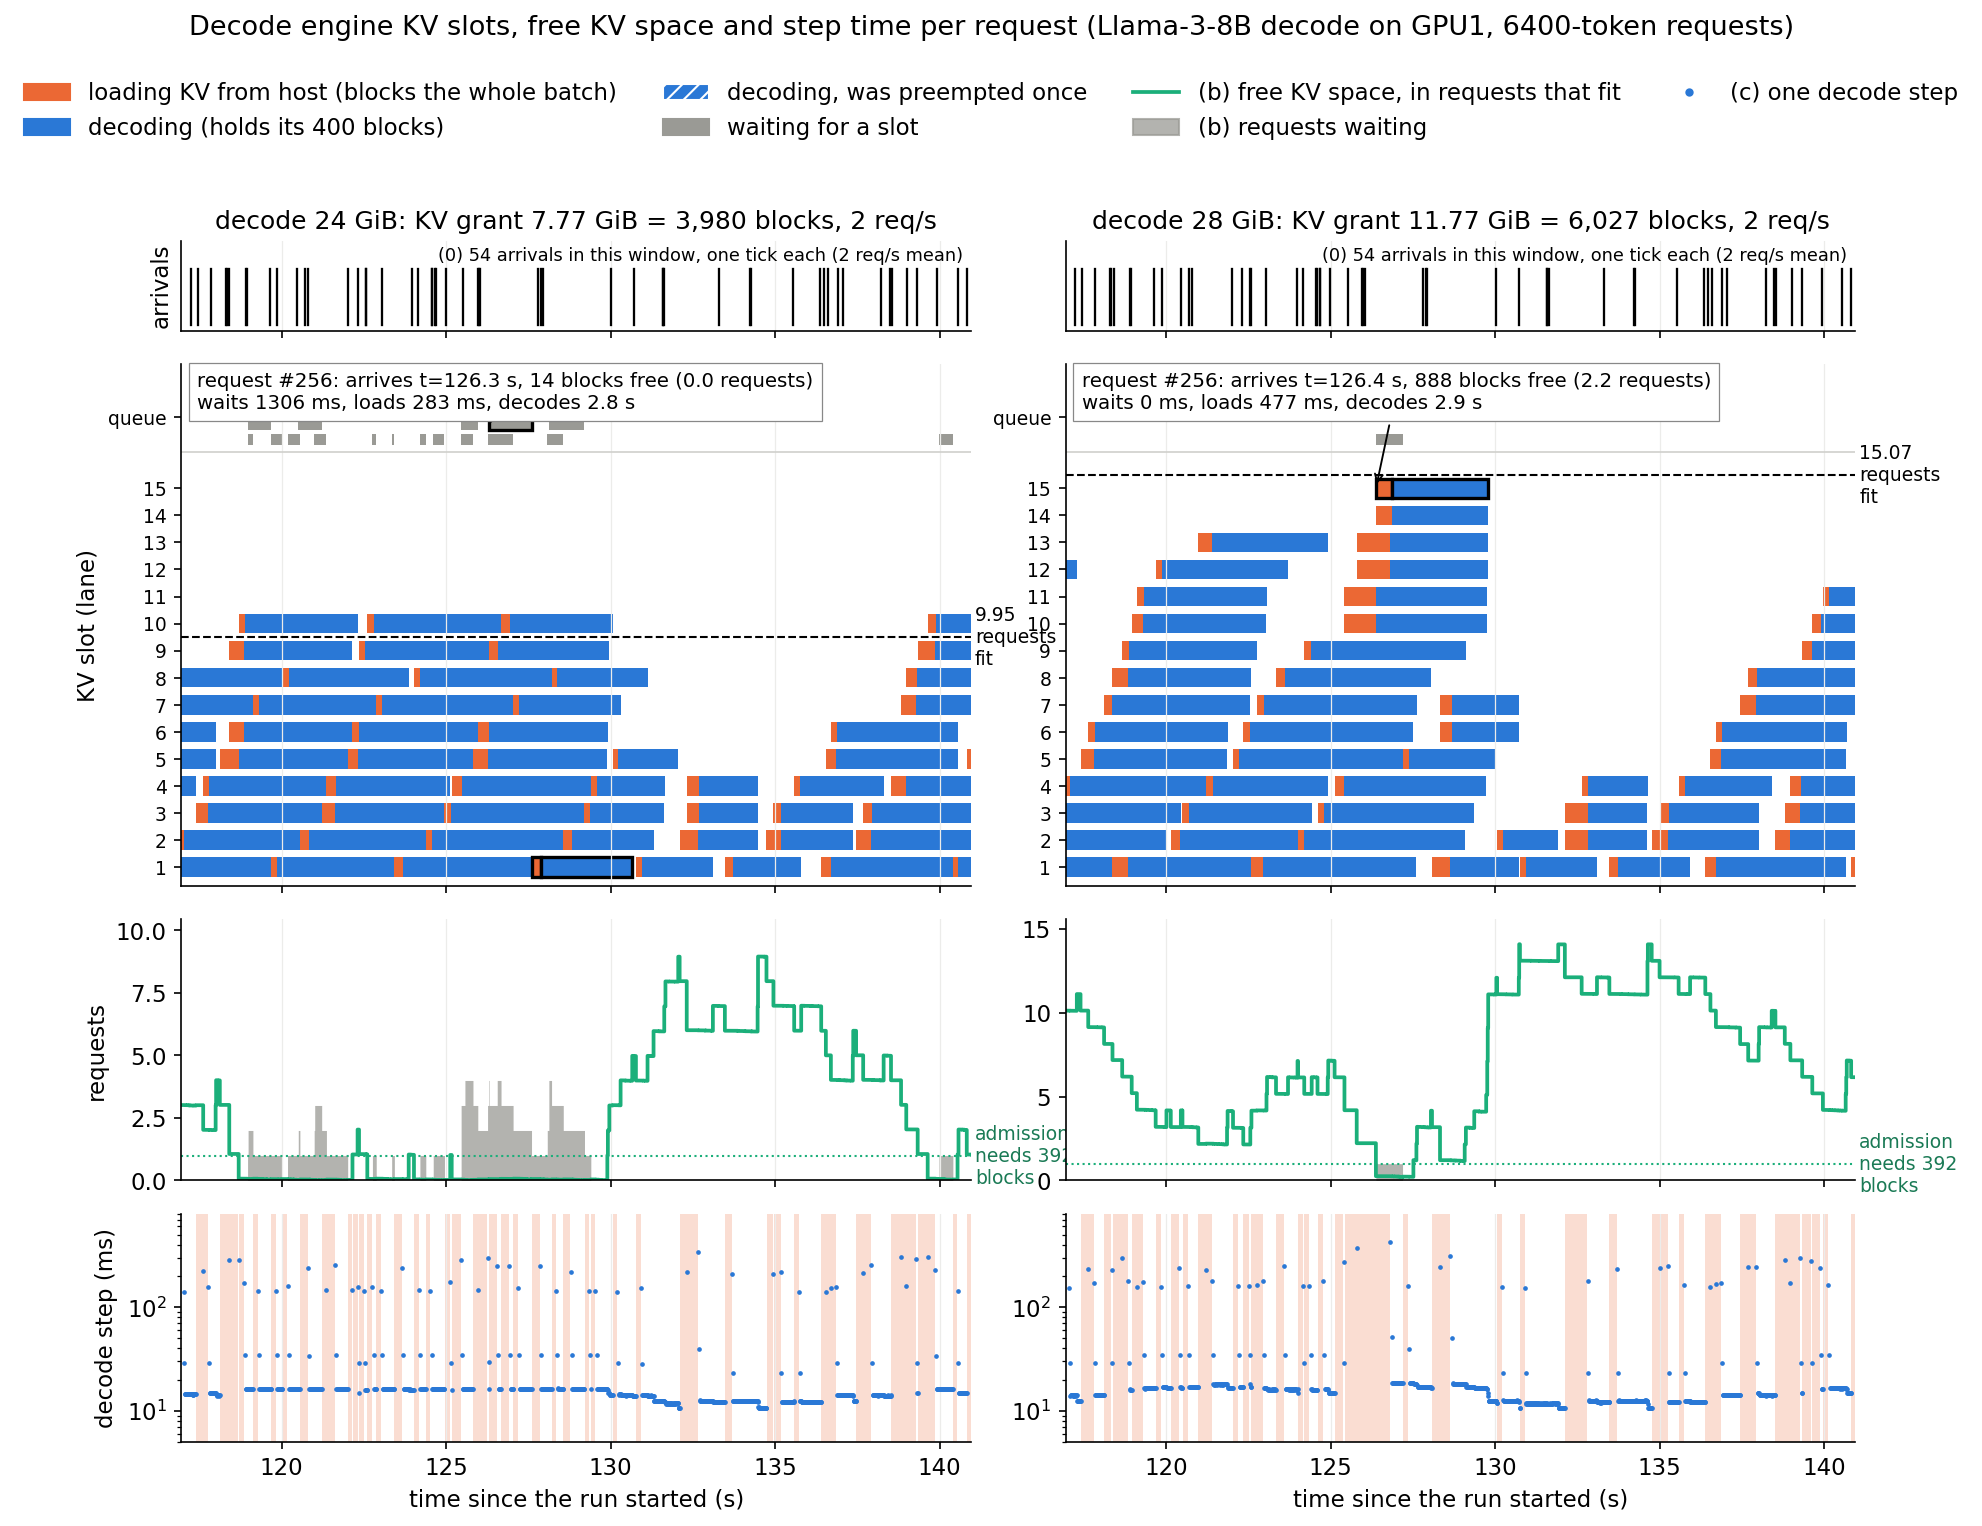
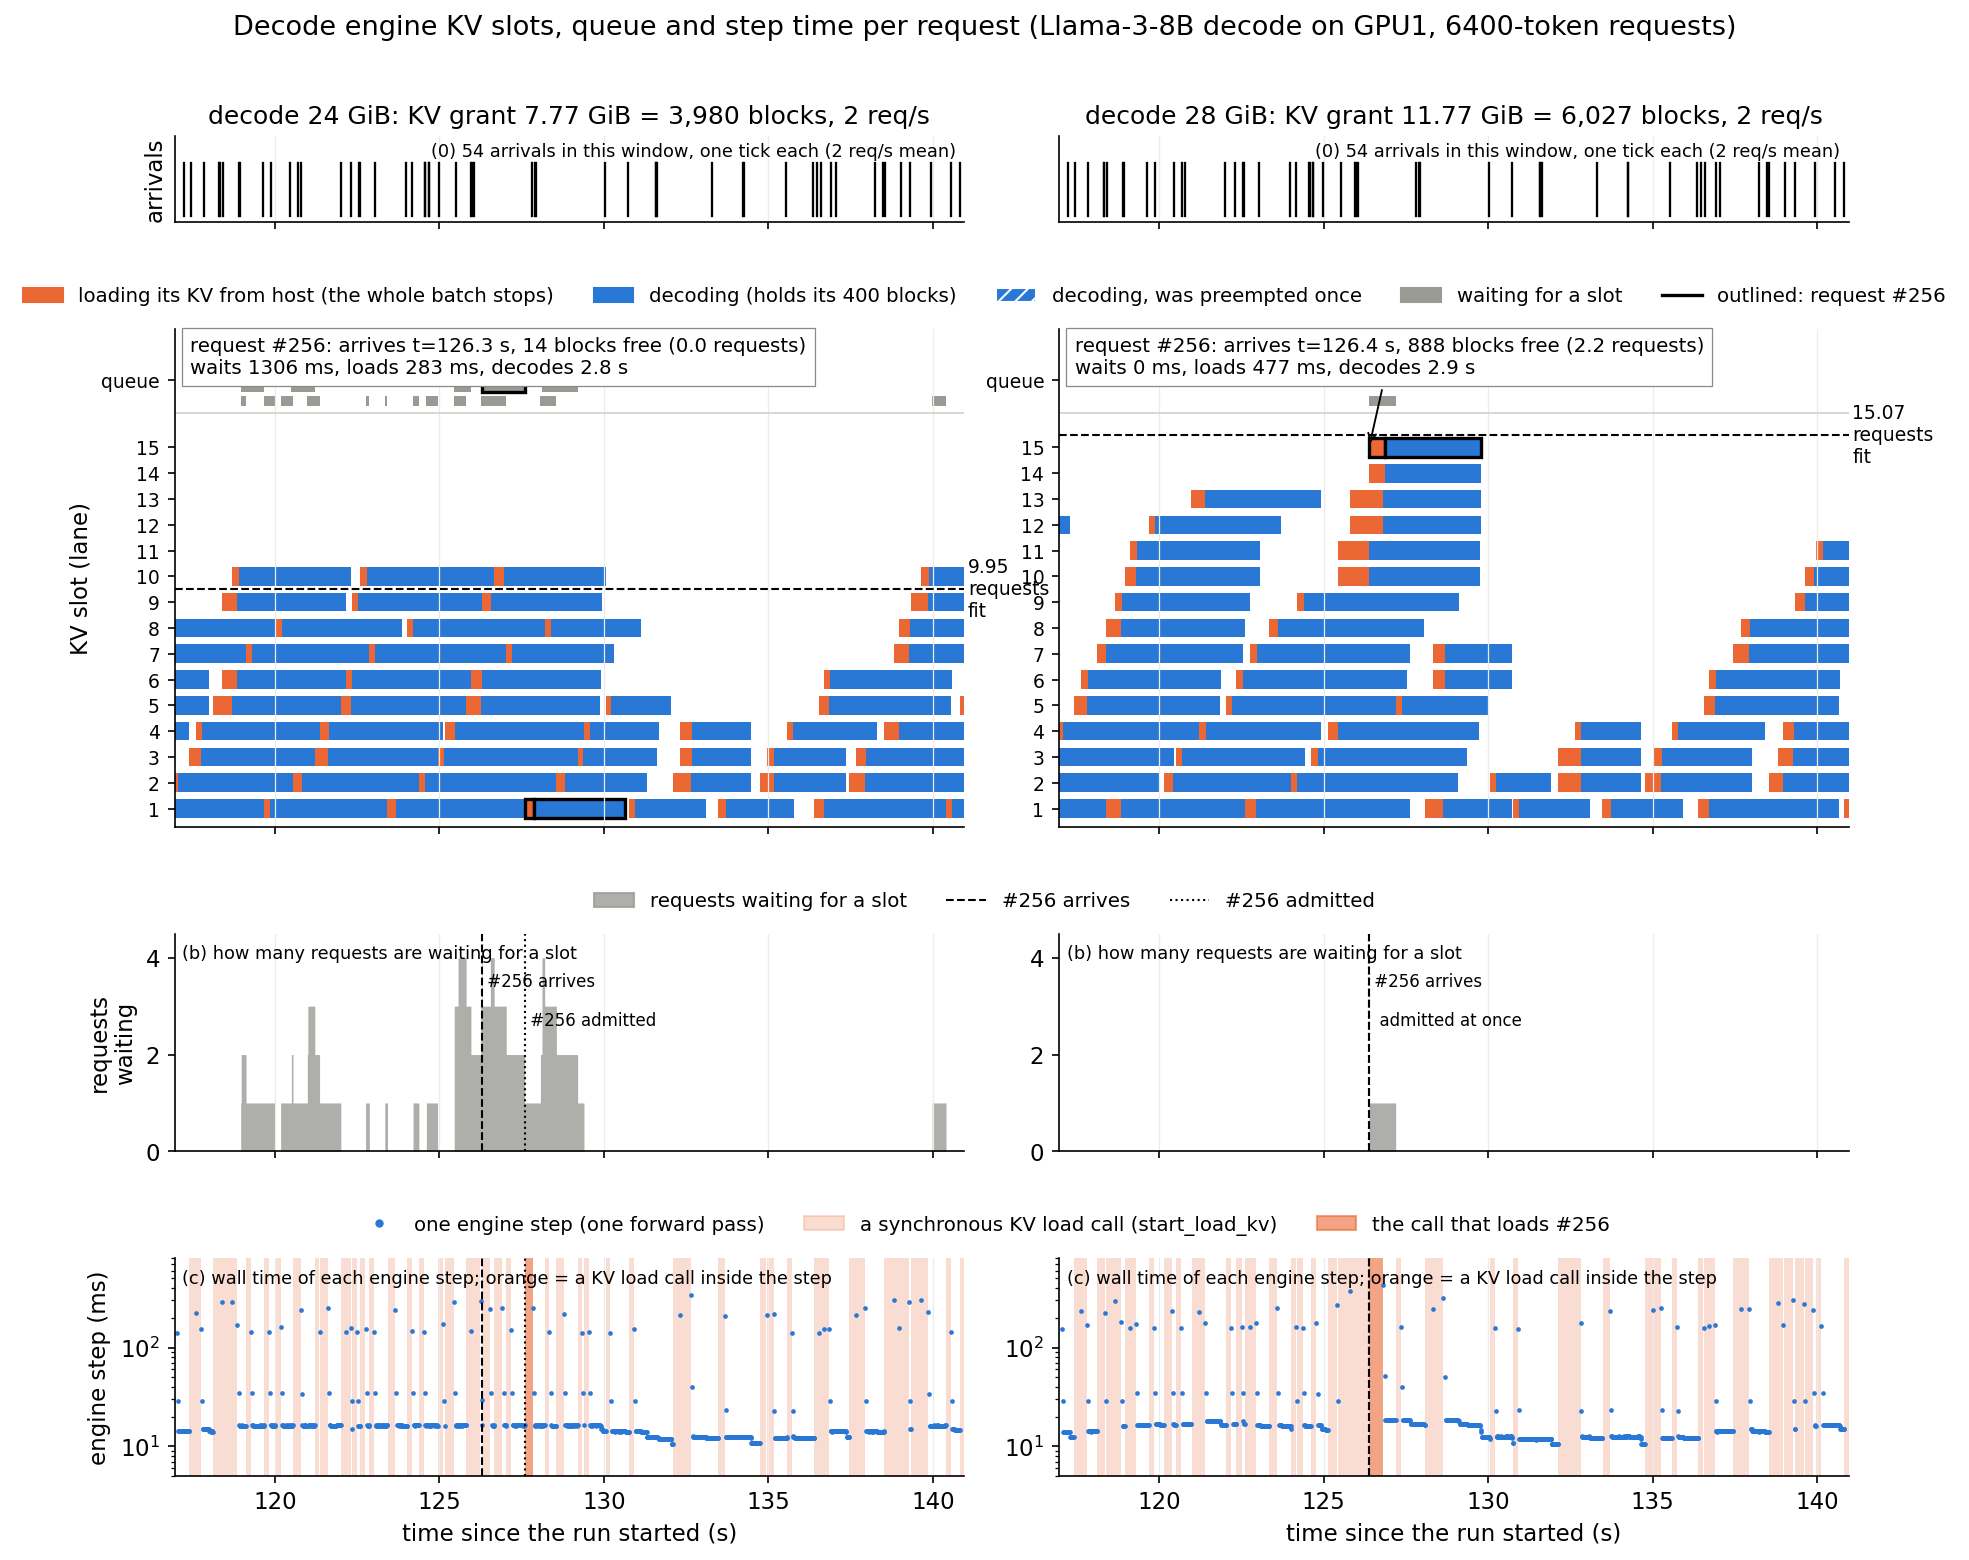
KV-slot timeline figure: per-row legends, queue-only row (b), #256 marked in (b) and (c)

Changed region(s): [[0.0, 0.0, 0.9914, 1.0], [0.5267, 0.6468, 0.5576, 0.6776]]

diff --git a/scripts/plots/plot_kv_timeline.py b/scripts/plots/plot_kv_timeline.py
@@ -107,8 +107,8 @@ def main():
             args.follow = max(cand, key=lambda r: r["s"] - r["a"])["index"]
 
     ncol = len(data)
-    fig, axes = plt.subplots(4, ncol, figsize=(7.2 * ncol, 10.4), sharex=True,
-                             gridspec_kw={"height_ratios": [0.55, 3.2, 1.6, 1.4], "hspace": 0.12,
+    fig, axes = plt.subplots(4, ncol, figsize=(7.2 * ncol, 11.6), sharex=True,
+                             gridspec_kw={"height_ratios": [0.55, 3.2, 1.4, 1.4], "hspace": 0.42,
                                           "wspace": 0.12}, squeeze=False)
     ymax_lane = max(max(lanes(d[1]).values()) + 1 for d in data)
     qmax = 0
@@ -186,40 +186,58 @@ def main():
                        arrowprops=dict(arrowstyle="->", color="black", lw=0.9))
         # (b) free space and queue, in requests
         m = (st[:, 0] > t0 - 1) & (st[:, 0] < t1 + 1)
-        b.step(st[m, 0], st[m, 3] / REQ_BLOCKS, where="post", color=C_FREE, lw=1.8)
-        b.fill_between(st[m, 0], 0, st[m, 2], step="post", color=C_WAIT, alpha=0.75, lw=0)
-        b.axhline(392 / REQ_BLOCKS, color=C_FREE, ls=":", lw=1)
-        b.text(1.005, 392 / REQ_BLOCKS, "admission\nneeds 392\nblocks", transform=b.get_yaxis_transform(),
-               ha="left", va="center", fontsize=9, color="#1a7a55")
-        b.set_ylim(0, max(qmax, blocks / REQ_BLOCKS) + 0.5)
+        b.fill_between(st[m, 0], 0, st[m, 2], step="post", color=C_WAIT, alpha=0.8, lw=0)
+        b.set_ylim(0, max(qmax, 1) + 0.5)
         if j == 0:
-            b.set_ylabel("requests")
+            b.set_ylabel("requests\nwaiting")
+        b.text(0.01, 0.95, "(b) how many requests are waiting for a slot", transform=b.transAxes,
+               fontsize=8.5, va="top")
         # (c) step durations
         ms = (steps[:, 0] > t0) & (steps[:, 0] < t1) & ~np.isnan(steps[:, 1])
         c.plot(steps[ms, 0], 1000 * steps[ms, 1], ".", ms=2.5, color=C_STEP)
+        own = None
+        if fr is not None:
+            own = next(((lt, ld) for lt, ld in loads if lt <= fr["s"] + 0.05 and lt + ld >= fr["s"]), None)
         for lt, ld in loads:
             if t0 < lt < t1:
-                c.axvspan(lt, lt + ld, color=C_LOAD, alpha=0.22, lw=0)
+                is_own = own is not None and lt == own[0]
+                c.axvspan(lt, lt + ld, color=C_LOAD, alpha=0.6 if is_own else 0.22, lw=0)
         c.set_yscale("log")
         c.set_ylim(5, 800)
+        c.text(0.01, 0.95, "(c) wall time of each engine step; orange = a KV load call inside the step",
+               transform=c.transAxes, fontsize=8.5, va="top")
+        if fr is not None:
+            for ax_ in (b, c):
+                ax_.axvline(fr["a"], color="black", lw=1, ls="--")
+                ax_.axvline(fr["s"], color="black", lw=1, ls=":")
+            b.text(fr["a"], b.get_ylim()[1] * 0.78, f" #{args.follow} arrives", fontsize=8, va="center")
+            b.text(fr["s"], b.get_ylim()[1] * 0.6,
+                   f" #{args.follow} admitted" if fr["s"] - fr["a"] > 0.3 else "  admitted at once",
+                   fontsize=8, va="center")
         if j == 0:
-            c.set_ylabel("decode step (ms)")
+            c.set_ylabel("engine step (ms)")
         c.set_xlabel("time since the run started (s)")
         c.set_xlim(t0, t1)
     for ax in axes.flat:
         ax.spines[["top", "right"]].set_visible(False)
         ax.grid(axis="x", color="#ececea", lw=0.6)
-    handles = [Patch(color=C_LOAD, label="loading KV from host (blocks the whole batch)"),
-               Patch(color=C_DEC, label="decoding (holds its 400 blocks)"),
-               Patch(fc=C_DEC, hatch="///", ec="white", label="decoding, was preempted once"),
-               Patch(color=C_WAIT, label="waiting for a slot"),
-               Line2D([], [], color=C_FREE, lw=1.8, label="(b) free KV space, in requests that fit"),
-               Patch(color=C_WAIT, alpha=0.75, label="(b) requests waiting"),
-               Line2D([], [], color=C_STEP, marker=".", ls="", label="(c) one decode step")]
-    fig.legend(handles=handles, loc="upper center", ncol=4, frameon=False,
-               bbox_to_anchor=(0.5, 0.995))
-    fig.suptitle("Decode engine KV slots, free KV space and step time per request "
-                 "(Llama-3-8B decode on GPU1, 6400-token requests)", y=1.025, fontsize=13)
+    def row_legend(row, handles, ncol):
+        y1 = axes[row, 0].get_position().y1
+        fig.legend(handles=handles, loc="lower center", ncol=ncol, frameon=False, fontsize=9.5,
+                   bbox_to_anchor=(0.5, y1 + 0.003), bbox_transform=fig.transFigure)
+    row_legend(1, [Patch(color=C_LOAD, label="loading its KV from host (the whole batch stops)"),
+                   Patch(color=C_DEC, label="decoding (holds its 400 blocks)"),
+                   Patch(fc=C_DEC, hatch="///", ec="white", label="decoding, was preempted once"),
+                   Patch(color=C_WAIT, label="waiting for a slot"),
+                   Line2D([], [], color="black", lw=1.6, label=f"outlined: request #{args.follow}")], 5)
+    row_legend(2, [Patch(color=C_WAIT, alpha=0.8, label="requests waiting for a slot"),
+                   Line2D([], [], color="black", lw=1, ls="--", label=f"#{args.follow} arrives"),
+                   Line2D([], [], color="black", lw=1, ls=":", label=f"#{args.follow} admitted")], 3)
+    row_legend(3, [Line2D([], [], color=C_STEP, marker=".", ls="", label="one engine step (one forward pass)"),
+                   Patch(color=C_LOAD, alpha=0.22, label="a synchronous KV load call (start_load_kv)"),
+                   Patch(color=C_LOAD, alpha=0.6, label=f"the call that loads #{args.follow}")], 3)
+    fig.suptitle("Decode engine KV slots, queue and step time per request "
+                 "(Llama-3-8B decode on GPU1, 6400-token requests)", y=0.95, fontsize=13)
     fig.savefig(args.out, dpi=150, bbox_inches="tight")
     print("->", args.out, "window", round(t0, 1), "follow", args.follow)
 

diff --git a/reports/report_kv_slots.md b/reports/report_kv_slots.md
@@ -253,15 +253,17 @@ What to look at:
   it finds 14 free blocks (0.0 requests), all ten lanes occupied, and waits 1,306 ms for
   lane 1 to free. At 28 GiB the same request finds 888 free blocks (2.2 requests) and
   waits 0 ms. Same request, same neighbours, five more slots: the wait disappears.
-- **Row (b): free space and queue are complementary.** The grey queue appears exactly
-  when the green "free space" line touches zero and vanishes when it lifts — there is no
-  waiting with a slot free. The valley at 130–135 s in both panels is the arrival process,
-  not the engine: 122–127 s brought 16 arrivals (3.2 /s) that filled the pool, 127–133 s
-  brought 8 (1.3 /s) while 17–20 finished.
-- **Row (c): the stalls of §4.3 as they happen.** Every orange band is one load call; the
-  step that contains it takes 150–500 ms instead of ~15 ms, and no running request gets a
-  token meanwhile. At 28 GiB #256 is admitted in a cohort of seven, so its own load call
-  copies seven requests and takes 477 ms.
+- **Row (b): the queue.** How many requests are waiting for a slot at each moment; the
+  dashed and dotted lines mark #256's arrival and admission. At 24 GiB it joins a queue of
+  three and waits 1.3 s; at 28 GiB the queue is empty and it is admitted at once. The
+  empty stretch at 130–135 s in both panels is the arrival process, not the engine:
+  122–127 s brought 16 arrivals (3.2 /s) that filled the pool, 127–133 s brought 8
+  (1.3 /s) while 17–20 finished.
+- **Row (c): the stalls of §4.3 as they happen.** Each dot is one engine step; each pale
+  orange band is one synchronous KV load call, and the step that contains it takes
+  150–500 ms instead of ~15 ms — no running request gets a token meanwhile. The darker
+  band is the call that loads #256: at 28 GiB it is admitted in a cohort of seven, so that
+  one call copies seven requests and takes 477 ms.
 
 ### 4.5 Hypothesis 1 — the slots hold duplicate prefixes
 
